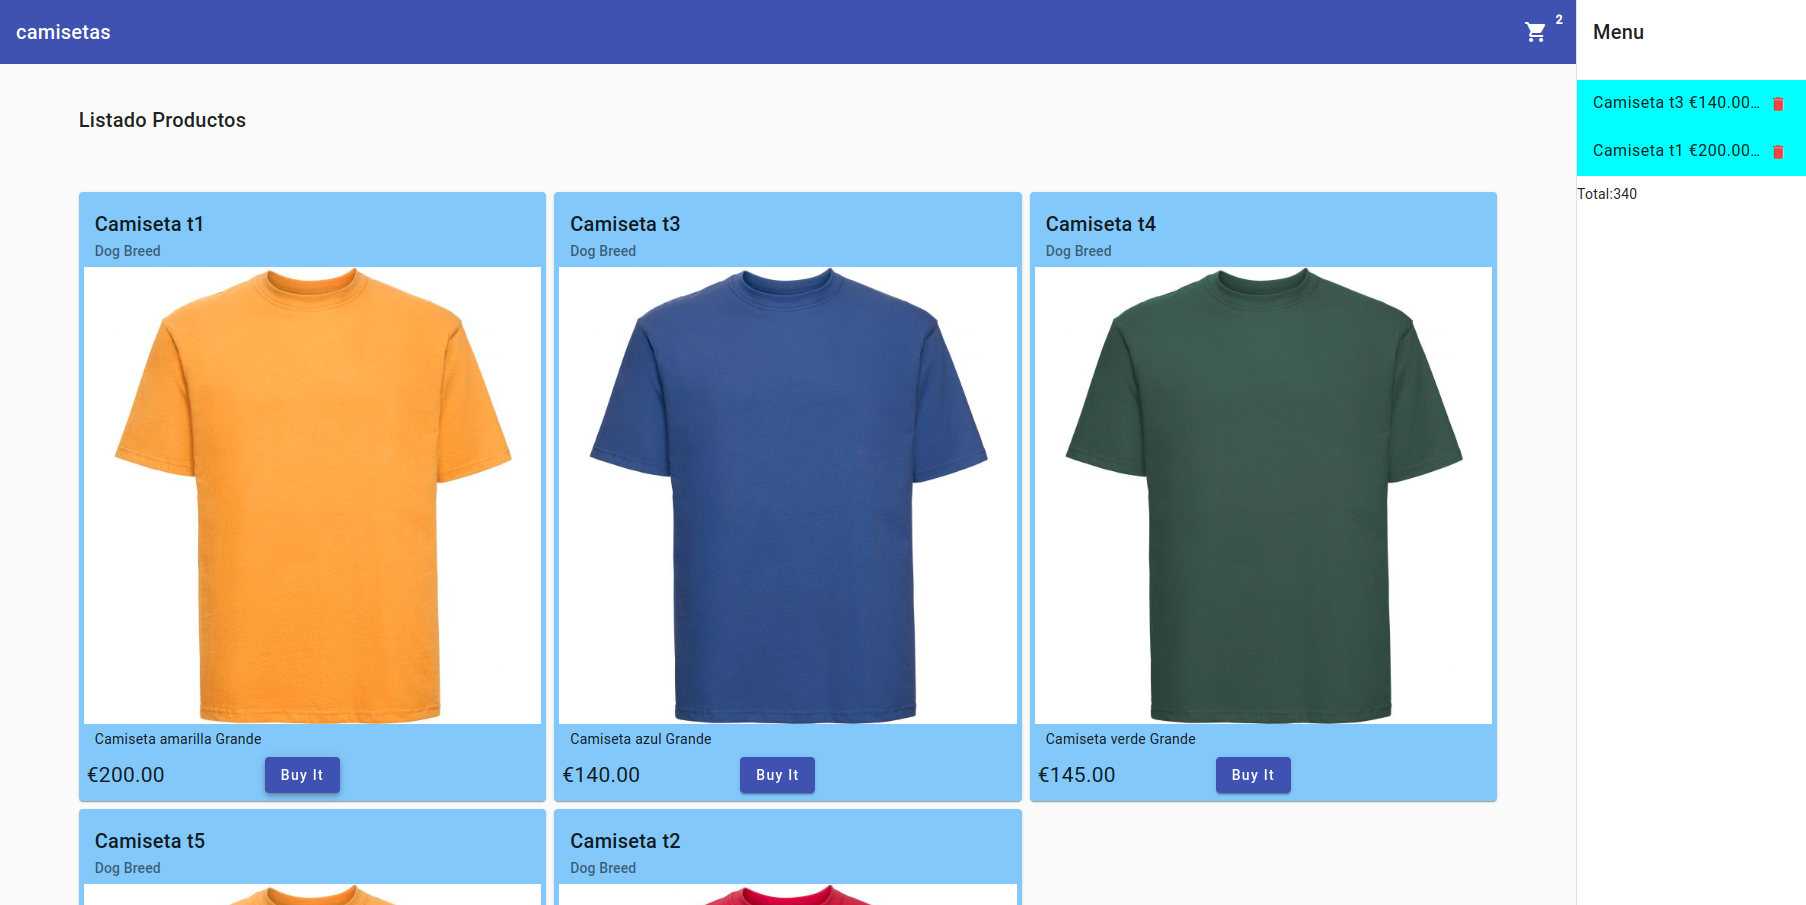
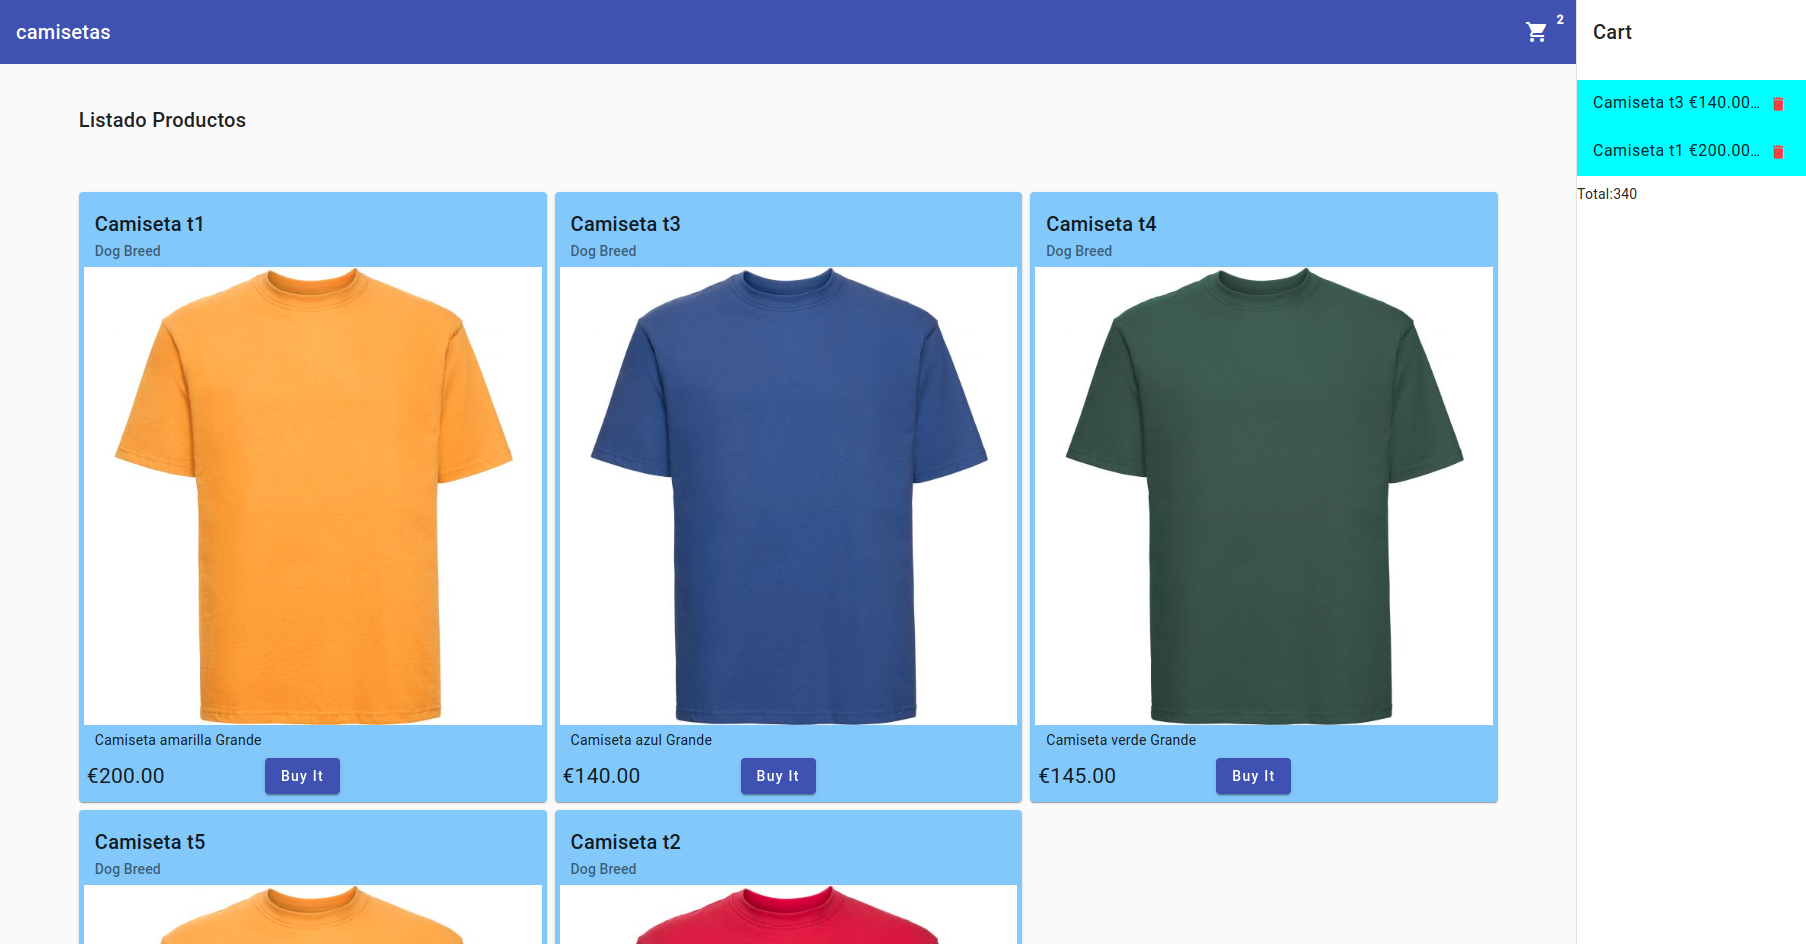
inicial8

diff --git a/src/app/components/sidenav/sidenav.component.html b/src/app/components/sidenav/sidenav.component.html
@@ -8,7 +8,7 @@
     [opened]="false"
     position="end"
   >
-    <mat-toolbar>Menu</mat-toolbar>
+    <mat-toolbar>Cart</mat-toolbar>
     <mat-nav-list>
       <app-cart></app-cart>
     </mat-nav-list>
